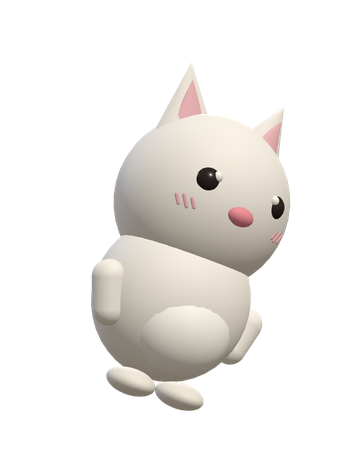
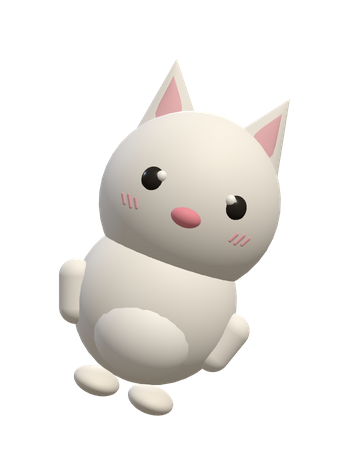
feat(site): let the peeking characters face front and keep both eyes on screen (#30)
* feat(site): let the leaning characters look straight ahead

The five characters peeking in from the page edges used to turn their
heads as well as lean (`yaw` 0.4-0.46). Half the face went behind the
head: one eye and one blush gone, and the expression with it. Leaning
alone already reads as peeking, so the gaze no longer turns.

Facing front makes the body wider on screen, and four of the five hit
the edge of their 340x460 frame. A character that touches the frame is
cut by a straight line in the middle of the page, so `panX` and `lift`
were measured again from a wide calibration render and set so each
character lands where it did before, with 10px or more of margin on
every side.

The narrow tier (1440-1600px) had to give way too. It tucks the
characters deep so only the face shows, and that offset was tuned when
the face sat at the outer edge of the drawing. Now that the face is in
the middle, the old depth cut between the eyes. The offsets are looser
by the width of a third of a face.

Verified: alpha bounding boxes of all five (nothing touches the frame),
screenshots at both the 1440 and 1600 tiers, `npm run check:site`,
`npm test`.

Claude-Session: https://claude.ai/code/session_01YVJBB5NKnaiQf6C8JYZTro

* fix(site): keep the left-side peekers tucked behind the edge on wide screens

Turning the characters to face front moved them inside their 340x460
frame, but only the 1440px tier was re-measured afterwards. On wider
[…]

diff --git a/site/style.css b/site/style.css
@@ -306,12 +306,27 @@ h3 { font-size: 1.02rem; font-weight: 700; letter-spacing: -0.005em; line-height
  * 크기를 키울 때는 width 와 left/right 를 같은 비율로 키운다. 그래야 얼굴이
  * 잘리지 않는 이 비율이 유지된다.
  *
+ * **물리는 깊이는 눈이 정한다.** 아래 값은 다섯 마리 모두 바깥쪽 눈이 화면
+ * 안으로 20px 들어오는 자리다. 얼굴이 반쯤 잘린 캐릭터는 빼꼼한 게 아니라
+ * 그냥 표정을 잃은 것이라, 더 깊이 물릴 수 있어도 여기서 멈춘다. 결과가
+ * 몸의 4분의 3쯤 보이는 상태이고, 그 정도만 되어도 세로선에 물려 있는
+ * 것은 충분히 읽힌다.
+ *
+ * 눈은 그림마다 다른 자리에 있다 (판다 x126, 강아지 x138, 고양이 x142,
+ * 340px 그림 기준). 그래서 **px 을 똑같이 주면 안 되고** 그림마다 따로
+ * 역산해야 한다. 화면 폭이 아니라 걸어 둔 width 에서 나오는 값이므로,
+ * width 가 같은 구간끼리는 값도 같다.
+ *
+ * **그림을 다시 뜨면 이 값도 다시 재야 한다.** 눈 위치가 조금만 움직여도
+ * 곧바로 눈을 밟는다. 한번은 그림만 새로 뜨고 이 값을 그대로 뒀다가
+ * 다섯 마리가 모두 한쪽 눈을 잃은 채로 나간 적이 있다.
+ *
  * 1440px 아래에서는 나오지 않는다. 본문 칸 바깥 여백이 그보다 좁으면 글과
  * 부딪힌다. 있으면 좋은 것이지 없으면 안 되는 것이 아니다.
  *
- * 좁은 화면이라고 캐릭터를 줄이지는 않는다. 크기는 그대로 두고 더 깊이 물려서
- * 얼굴만 내밀게 한다. 줄이면 그냥 작아 보이지만, 물리면 더 빼꼼해 보인다.
- * 맥북 14"(1512px)·13"(1470px)가 이 구간이라 여기서 사라지면 안 된다.
+ * 좁은 화면이라고 캐릭터를 줄이지는 않는다. 크기는 그대로 두고, 어느 폭에서나
+ * 같은 만큼 물린다. 맥북 14"(1512px)·13"(1470px)가 이 구간이라 여기서
+ * 사라지면 안 된다.
  */
 
 .peekers { display: none; }
@@ -348,28 +363,25 @@ h3 { font-size: 1.02rem; font-weight: 700; letter-spacing: -0.005em; line-height
    * 부리 때문에 그림 안에서 차지하는 폭이 좁다. 화면에서 다섯 얼굴이 같은
    * 크기로 보이는 쪽을 택했다.
    */
-  .peek-panda { top: 120px; left: -135px; width: 240px; background-image: url('/assets/peek-panda.png'); }
-  .peek-bunny { top: 560px; right: -195px; width: 300px; background-image: url('/assets/peek-bunny.png'); }
-  .peek-dog { top: 1020px; left: -132px; width: 240px; background-image: url('/assets/peek-dog.png'); }
-  .peek-duck { top: 1600px; right: -175px; width: 270px; background-image: url('/assets/peek-duck.png'); }
-  .peek-cat { top: 2160px; left: -128px; width: 240px; background-image: url('/assets/peek-cat.png'); }
+  .peek-panda { top: 120px; left: -68px; width: 240px; background-image: url('/assets/peek-panda.png'); }
+  .peek-bunny { top: 560px; right: -136px; width: 300px; background-image: url('/assets/peek-bunny.png'); }
+  .peek-dog { top: 1020px; left: -77px; width: 240px; background-image: url('/assets/peek-dog.png'); }
+  .peek-duck { top: 1600px; right: -131px; width: 270px; background-image: url('/assets/peek-duck.png'); }
+  .peek-cat { top: 2160px; left: -80px; width: 240px; background-image: url('/assets/peek-cat.png'); }
 }
 
-/* 창이 940px 뿐이라 여백이 넓다. 여기서부터는 더 많이 내민다. */
-@media (min-width: 1600px) {
-  .peek-panda { left: -40px; }
-  .peek-bunny { right: -150px; }
-  .peek-dog { left: -36px; }
-  .peek-duck { right: -132px; }
-  .peek-cat { left: -34px; }
-}
-
+/*
+ * 창이 940px 뿐이라 넓은 화면에서는 여백이 남는다. 그렇다고 더 내밀지는
+ * 않는다 — 깊이는 눈이 정하는 것이라 화면이 넓어졌다고 달라질 것이 없다.
+ * 남는 여백은 캐릭터를 키우는 데에 쓴다. width 가 커진 만큼 물리는 값도
+ * 같은 비율로 커진다.
+ */
 @media (min-width: 1900px) {
-  .peek-panda { top: 116px; left: -50px; width: 300px; }
-  .peek-bunny { top: 560px; right: -190px; width: 370px; }
-  .peek-dog { top: 1030px; left: -46px; width: 300px; }
-  .peek-duck { top: 1610px; right: -166px; width: 335px; }
-  .peek-cat { top: 2175px; left: -44px; width: 300px; }
+  .peek-panda { top: 116px; left: -91px; width: 300px; }
+  .peek-bunny { top: 560px; right: -172px; width: 370px; }
+  .peek-dog { top: 1030px; left: -101px; width: 300px; }
+  .peek-duck { top: 1610px; right: -168px; width: 335px; }
+  .peek-cat { top: 2175px; left: -105px; width: 300px; }
 }
 
 /*

diff --git a/src/renderer/site-assets/site-assets.js b/src/renderer/site-assets/site-assets.js
@@ -5,11 +5,11 @@
  *   ?shot=hero        고양이 한 마리, 배경 없음
  *   ?shot=characters  5종 나란히, 배경 없음
  *   ?shot=og          공유 카드 (글 + 5종)
- *   ?shot=peek-panda  판다가 오른쪽으로 기대어 얼굴을 내민다 (랜딩 왼쪽 위)
- *   ?shot=peek-bunny  토끼가 왼쪽으로 기대어 얼굴을 내민다  (랜딩 오른쪽 가운데)
- *   ?shot=peek-dog    강아지가 오른쪽으로 기대어 얼굴을 내민다 (랜딩 왼쪽 아래)
- *   ?shot=peek-duck   오리가 왼쪽으로 기대어 얼굴을 내민다   (랜딩 오른쪽 네 번째)
- *   ?shot=peek-cat    고양이가 오른쪽으로 기대어 얼굴을 내민다 (랜딩 왼쪽 다섯 번째)
+ *   ?shot=peek-panda  판다가 정면을 본 채 오른쪽으로 기운다 (랜딩 왼쪽 위)
+ *   ?shot=peek-bunny  토끼가 정면을 본 채 왼쪽으로 기운다   (랜딩 오른쪽 가운데)
+ *   ?shot=peek-dog    강아지가 정면을 본 채 오른쪽으로 기운다 (랜딩 왼쪽 아래)
+ *   ?shot=peek-duck   오리가 정면을 본 채 왼쪽으로 기운다    (랜딩 오른쪽 네 번째)
+ *   ?shot=peek-cat    고양이가 정면을 본 채 오른쪽으로 기운다 (랜딩 왼쪽 다섯 번째)
  */
 
 import * as THREE from 'three'
@@ -38,27 +38,35 @@ const LAYOUT = {
   og: { specs: CHARACTERS, spacing: 2.3, headroom: 1.24, lift: 0.0, yaw: -0.2 },
 
   /*
-   * 빼꼼 — 모서리 뒤에서 몸을 기울여 얼굴만 비스듬히 내민 자세.
+   * 빼꼼 — 모서리 뒤에서 몸을 기울여 얼굴을 내민 자세.
    *
    * 기울기(roll)가 이 자세의 전부다. 똑바로 선 캐릭터를 가장자리로 자르면 그냥
    * 잘린 그림이지만, 기대는 쪽으로 눕혀 놓으면 벽 뒤에서 내다보는 것이 된다.
    * 그래서 화면 왼쪽에 설 아이는 오른쪽으로, 오른쪽에 설 아이는 왼쪽으로 눕는다.
    * 몸이 잘리는 방향과 기우는 방향이 어긋나면 자세가 무너지니 짝을 바꾸지 말 것.
    *
+   * **얼굴은 기울여도 정면을 본다** (`yaw: 0`). 한때 고개까지 옆으로 돌려
+   * 놓았는데, 그러면 눈 하나와 볼터치 하나가 뒤로 넘어가 표정이 절반만 남는다.
+   * 기울기만으로도 빼꼼해 보이므로 시선까지 돌릴 이유가 없다.
+   *
    * 얼굴만 크게 담고 싶더라도 **캐릭터 전체가 그림 안에 들어와야 한다.** 발이
    * 그림 아래 모서리에 걸리면 랜딩페이지에서 몸통이 평평한 가로선으로 잘려
    * 보인다. 잘리는 곳은 화면 가장자리 하나여야 하고, 그건 세로선이다.
    * 얼굴을 키우는 일은 여기서가 아니라 style.css 에서 크게 걸고 많이 물리는
    * 방식으로 한다.
+   *
+   * 정면을 보면 옆으로 돌렸을 때보다 몸통 폭이 넓다. spanX 1.6 에 판다가 좌우
+   * 10~20px 남기고 겨우 들어가므로, roll 을 더 눕히거나 headroom 을 줄이려면
+   * 먼저 알파 여백부터 재 볼 것.
    */
   'peek-panda': {
     specs: [getCharacter('panda')],
     spacing: 0,
     headroom: 1.04,
-    lift: 0.02,
-    yaw: 0.46,
+    lift: 0.021,
+    yaw: 0,
     roll: -0.34,
-    panX: 0.17,
+    panX: 0.365,
     spanX: 1.6,
   },
   // 토끼는 귀가 길어서 눕히면 더 넓게 잡아야 귀 끝이 살아난다.
@@ -66,10 +74,10 @@ const LAYOUT = {
     specs: [getCharacter('bunny')],
     spacing: 0,
     headroom: 1.02,
-    lift: 0.14,
-    yaw: -0.46,
+    lift: 0.153,
+    yaw: 0,
     roll: 0.36,
-    panX: 0.06,
+    panX: -0.098,
     spanX: 1.6,
   },
   // 강아지는 귀가 늘어져서 기울이면 귀가 먼저 쏠린다. 그 맛으로 쓴다.
@@ -77,10 +85,10 @@ const LAYOUT = {
     specs: [getCharacter('dog')],
     spacing: 0,
     headroom: 1.04,
-    lift: 0.02,
-    yaw: 0.4,
+    lift: 0.023,
+    yaw: 0,
     roll: -0.3,
-    panX: 0.13,
+    panX: 0.251,
     spanX: 1.6,
   },
   // 오리는 귀가 없어서 세로가 짧다. 더 당겨야 얼굴이 다른 넷과 같은 크기로 보인다.
@@ -88,20 +96,20 @@ const LAYOUT = {
     specs: [getCharacter('duck')],
     spacing: 0,
     headroom: 0.94,
-    lift: 0.06,
-    yaw: -0.44,
+    lift: 0.069,
+    yaw: 0,
     roll: 0.34,
-    panX: -0.03,
+    panX: -0.117,
     spanX: 1.6,
   },
   'peek-cat': {
     specs: [getCharacter('cat')],
     spacing: 0,
     headroom: 1.04,
-    lift: 0.02,
-    yaw: 0.46,
+    lift: 0.022,
+    yaw: 0,
     roll: -0.34,
-    panX: 0.17,
+    panX: 0.287,
     spanX: 1.6,
   },
 }[shot]
